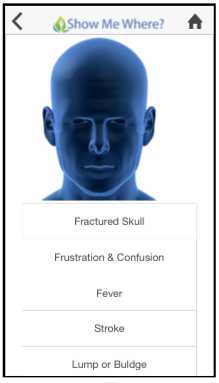
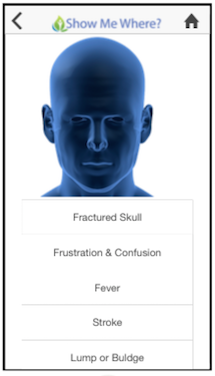
fix smw visability

Changed region(s): [[0.0, 0.0293, 0.0279, 0.9947], [0.6977, 0.2926, 0.7256, 0.3511], [0.1953, 0.2926, 0.2233, 0.3511]]

diff --git a/Planus - HTML/1 Planus - Flatty/index.html b/Planus - HTML/1 Planus - Flatty/index.html
@@ -84,17 +84,29 @@
 		<div class="row">
             <div class="col-sm-6" data-nekoanim="fadeInRightBig" data-nekodelay="200">
                 <h2>Who Am I?</h2>
-                <p>I graduated from the University of California, Irvine, with double degrees in International Studies and Sociology. While openly passionate about the social sciences, I also nurtured a flame of curiosity for the growing field of technology due to constant exposure to amazing new possibilities. 
-                </p><br>
-                <p>Currently, I am delving into designing and making the user experience and interaction a memorable piece of art. I love the human experiences and want to make yours a good one whenever you visit a web or mobile site.
+                <p> I am a <strong>web developer</strong>. I like to focus on front-end web development and make websites and web applications look good and responsive.
+                    Whether creating or designing, I aim to make the user experience and interaction a memorable piece of art.
+                </p>
+                <p> You will find me learning, building, and improving - always. When I am not attending meet-ups to further my knowledge, I can be spotted working with
+                    others on collaborative projects. I enjoy the proactive social learning process from interacting with fellow developers; the opportunity to make a
+                    new friend or gain a cool trick is invaluable.
                 </p>
             </div>
 
             <div class="col-sm-6" data-nekoanim="fadeInRightBig" data-nekodelay="400">
-                <h2>What Am I Doing?</h2>
-                <p>You will find me learning, building, and improving - always. When I am not attending meet-ups to further my knowledge, I can be spotted working with others on collaborative projects. I enjoy the proactive social learning process from interacting with fellow developers; the opportunity to make a new friend or gain a cool trick is invaluable.
-                </p>
-                <h3>Where Can You Find Me?</h3>
+                <h2>What Do I Use?</h2>
+                <table class="skilltable">
+                    <tr>
+                        <td>HTML</td>
+                        <td>CSS</td>
+                    </tr>
+                    <tr>
+                        <td>HTML</td>
+                        <td>CSS</td>
+                    </tr>
+                </table>
+
+                <h2>Where Can You Find Me?</h2>
                 <p>Everywhere! When I am not at the computer, you can find me outdoors practicing yoga, in the busy city snapping photos, or at a hidden hole-in-the-wall establishment indulging in unique dishes.
                 </p>
             </div>

diff --git a/Planus - HTML/1 Planus - Flatty/showmewhere.html b/Planus - HTML/1 Planus - Flatty/showmewhere.html
@@ -62,7 +62,7 @@
 <section id="showcase" class="cbp-so-section cbp-so-init">
     <div class="container cbp-so-side-top">
 
-        <div class="one_of_3">
+        <div class="one_of_3 hidden-xs">
             <div class="sidebar">
                 <a href="showmewhere.html"><img class="smallThumb" src="assets/smw1.png" alt="Show Me Where"/></a>
                 <a href="http://locker-letters.herokuapp.com"><img class="smallThumb" src="assets/locker-letters.png" alt="Locker Letters"/></a>
@@ -99,7 +99,7 @@
                     assist with extra help.
                 </p>
                 <p>
-                    My partner and I were assigned with frontend development and creating pages for the app. Even between two people, there were minor conflicts on
+                    My partner and I were assigned with front-end development and creating pages for the app. Even between two people, there were minor conflicts on
                     how to structure the code and how the design should look. Since time was of the essence, we decided to split the assignment and work independently
                     on individual pages. Even though my partner and I worked separately on our own pages, I made sure to communicate to my partner and to everyone of
                     what I was doing to make sure that our app had a uniformed look.
@@ -109,13 +109,16 @@
                 </a>
                 <h3 class="subtitle">Final Screen (w/ hard coded information)</h3>
 
-
                 <h3>Final Product</h3>
-                <h4>Click on the iPhone for a quick demo!</h4>
-                <h6>In this demo, only the head (fractured skull) and left arm (hand) are working.</h6>
-                <div class="square_b">
+                <h4 class="hidden-xs">Click on the iPhone for a quick demo!</h4>
+                <h6 class="hidden-xs">In this demo, only the head (fractured skull) and left arm (hand) are working.</h6>
+                <div class="square_b hidden-xs">
                     <DocHack-app></DocHack-app>
                 </div>
+                <a href="lightbox/img/smw5.png" data-lightbox="color" data-title="Home Screen">
+                    <img class="square_b visible-xs" src="assets/smw5.png">
+                </a>
+                <h3 class="subtitle visible-xs">Show Me Where Home Screen</h3>
 
                 <h3>Takeaways</h3>
                 <p> This Code-a-thon was an excellent exercise in collaboration and teamwork while on a tight deadline; effective communication and time management was crucial

diff --git a/Planus - HTML/1 Planus - Flatty/showme.html b/Planus - HTML/1 Planus - Flatty/showme.html
@@ -15,6 +15,7 @@
 			.device {
                 margin-left: auto;
                 margin-right: auto;
+                margin-top: 7%;
 				width: 380px;
 				height: 780px;
 				background-image: url(./iphone.svg);
@@ -40,7 +41,7 @@
         </style>
 		
     	<content><div id="phoneView" style="width: 600px; height: 540px;">
-	        <div class="device">
+	        <div class="device hidden-xs">
 	              <iframe style="margin-right: 0px; margin-left=23px" id="PhoneFrame" class="iframe" src="http://maxwellzirbel.com/betterDocHacking/www/index.html#"></iframe>
 	        </div>
     	</div></content>

diff --git a/Planus - HTML/1 Planus - Flatty/css/style.css b/Planus - HTML/1 Planus - Flatty/css/style.css
@@ -2540,3 +2540,7 @@ img.leftimg{float:left;padding-right:20px;}
     transition-delay: 0s;
     -webkit-transition-delay: 0s;
 }
+
+.skilltable {
+    margin-left: 40%;
+}
